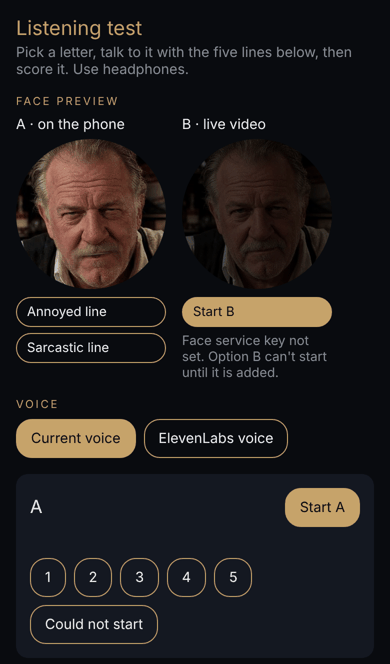
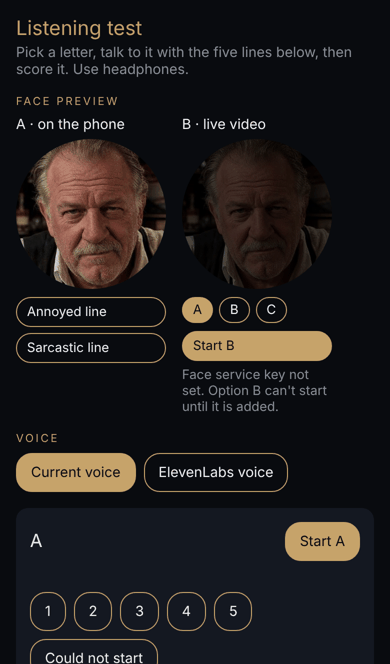
Proof: side-by-side preview with the real option B path (P-20261126-0028 part 2)
Claude-Session: https://claude.ai/code/session_014jxxq6LL3FjvzgGoxYrhYq

diff --git a/docs/proof/p-20261126-0028/README.md b/docs/proof/p-20261126-0028/README.md
@@ -5,4 +5,4 @@
   by the sound of that audio and the words, exactly as in the app.
 - `face-a-annoyed-top-sarcastic-bottom.jpg`: six moments of each line. Top: scowl and squint. Bottom: one brow up and a head tilt.
 - `preview-a-b-side-by-side.png`: the hidden listening test with A and B side by side; B shows the server's
-  "face service key not set" answer plainly.
+  "face service key not set" answer plainly (the request sent was face: photo, matching the backend PR #157).
